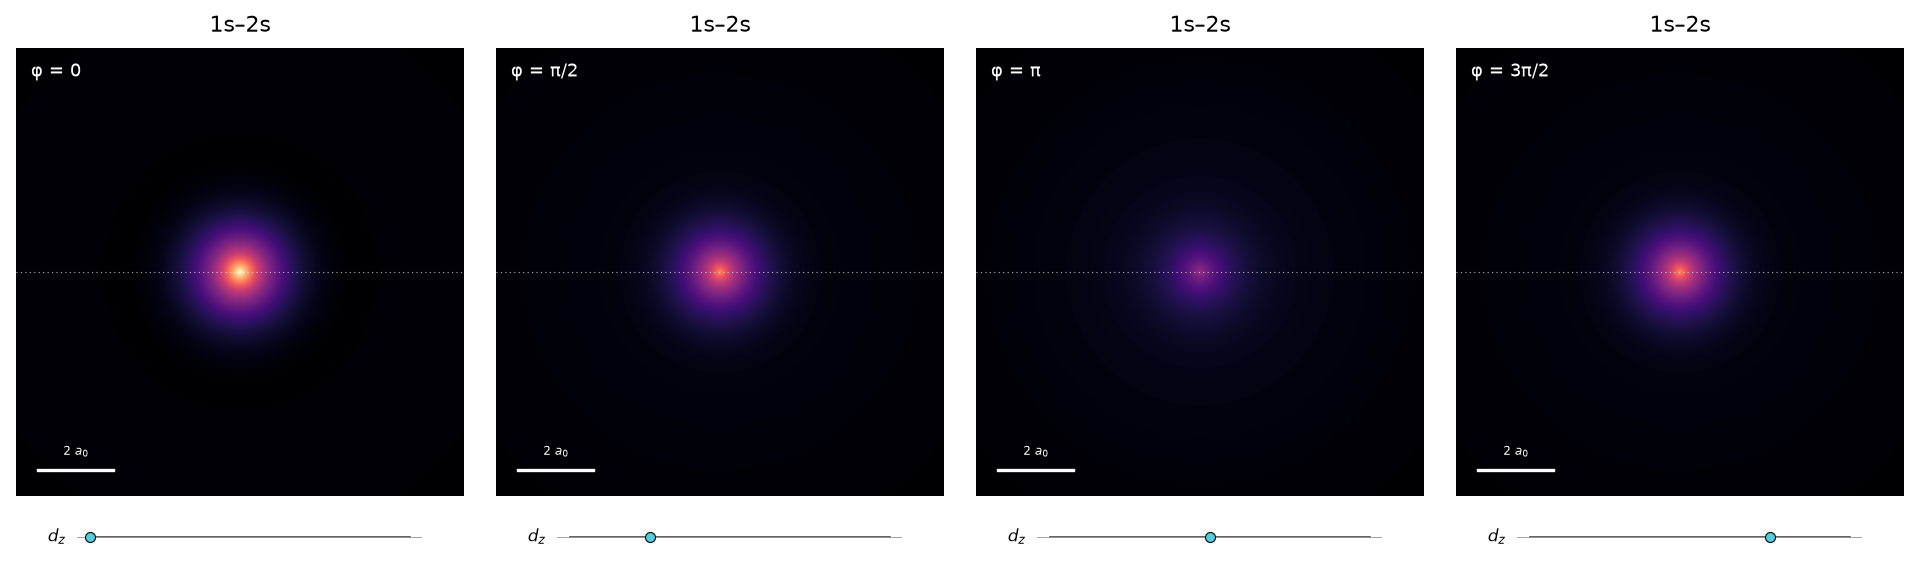
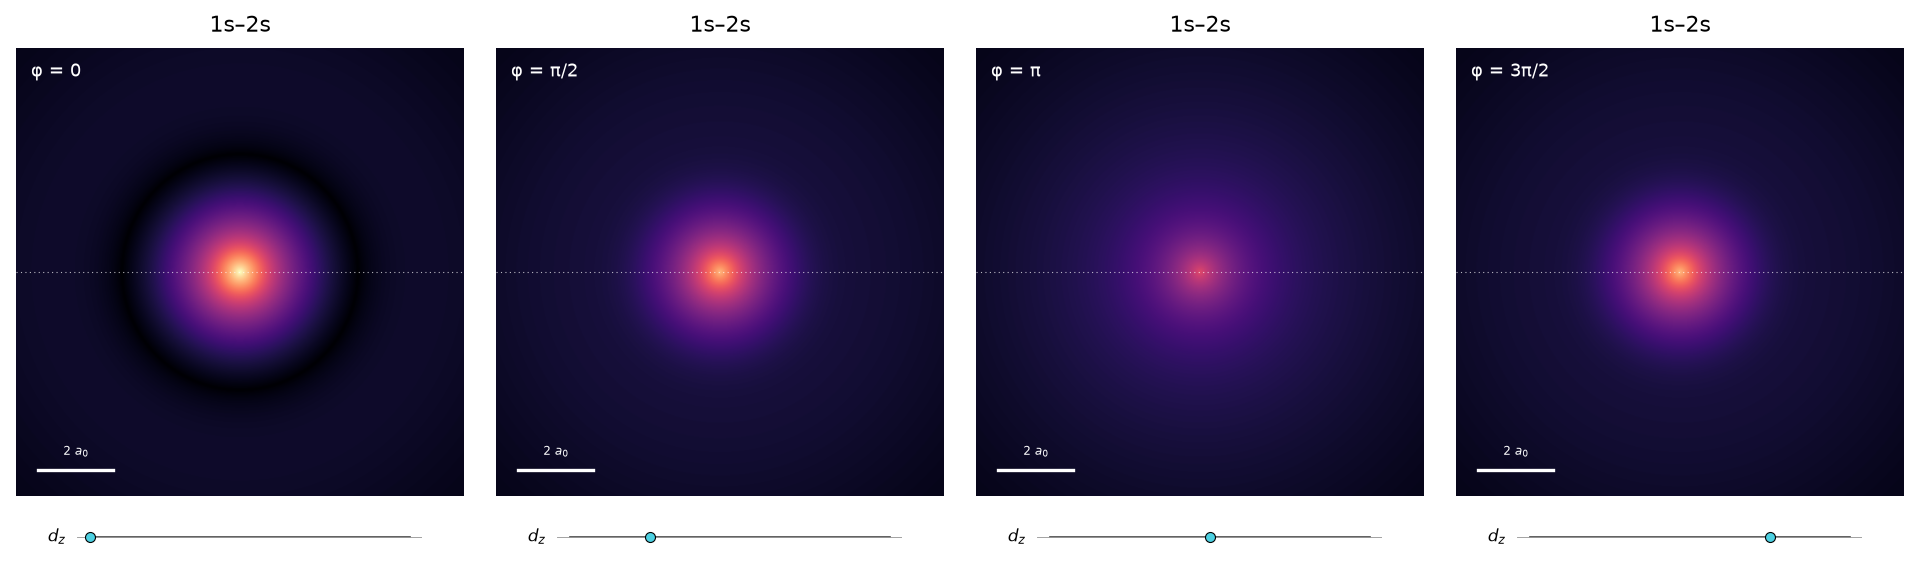
update

diff --git a/post1_radiation/superposition_gif.py b/post1_radiation/superposition_gif.py
@@ -32,7 +32,7 @@ BAR = 2.0            # scale bar length, a0
 N = 700              # grid points per axis
 FRAMES = 48          # frames per oscillation period
 FRAME_MS = 50        # milliseconds per frame
-GAMMA = 0.6          # display gamma of PowerNorm
+GAMMAS = [0.5, 0.5, 0.35]          # display gamma of PowerNorm
 GAMMA_NORM = 0.3     # exponent for adjusting vmaxes (same recipe and value as the other scripts)
 MARKER_COLOR = "#4DD0E1"
 
@@ -86,7 +86,7 @@ def make_gif(excited):
     A, I, peak = prepared[excited]
     vmax = vmaxes[excited]
     z_te = transition_z(excited)
-    norm = PowerNorm(GAMMA, vmin=0, vmax=vmax)
+    norm = PowerNorm(GAMMAS[STATES.index(excited)], vmin=0, vmax=vmax)
 
     FIG_W, FIG_H = 6.0, 7.2
     fig = plt.figure(figsize=(FIG_W, FIG_H), dpi=80, facecolor="white")
